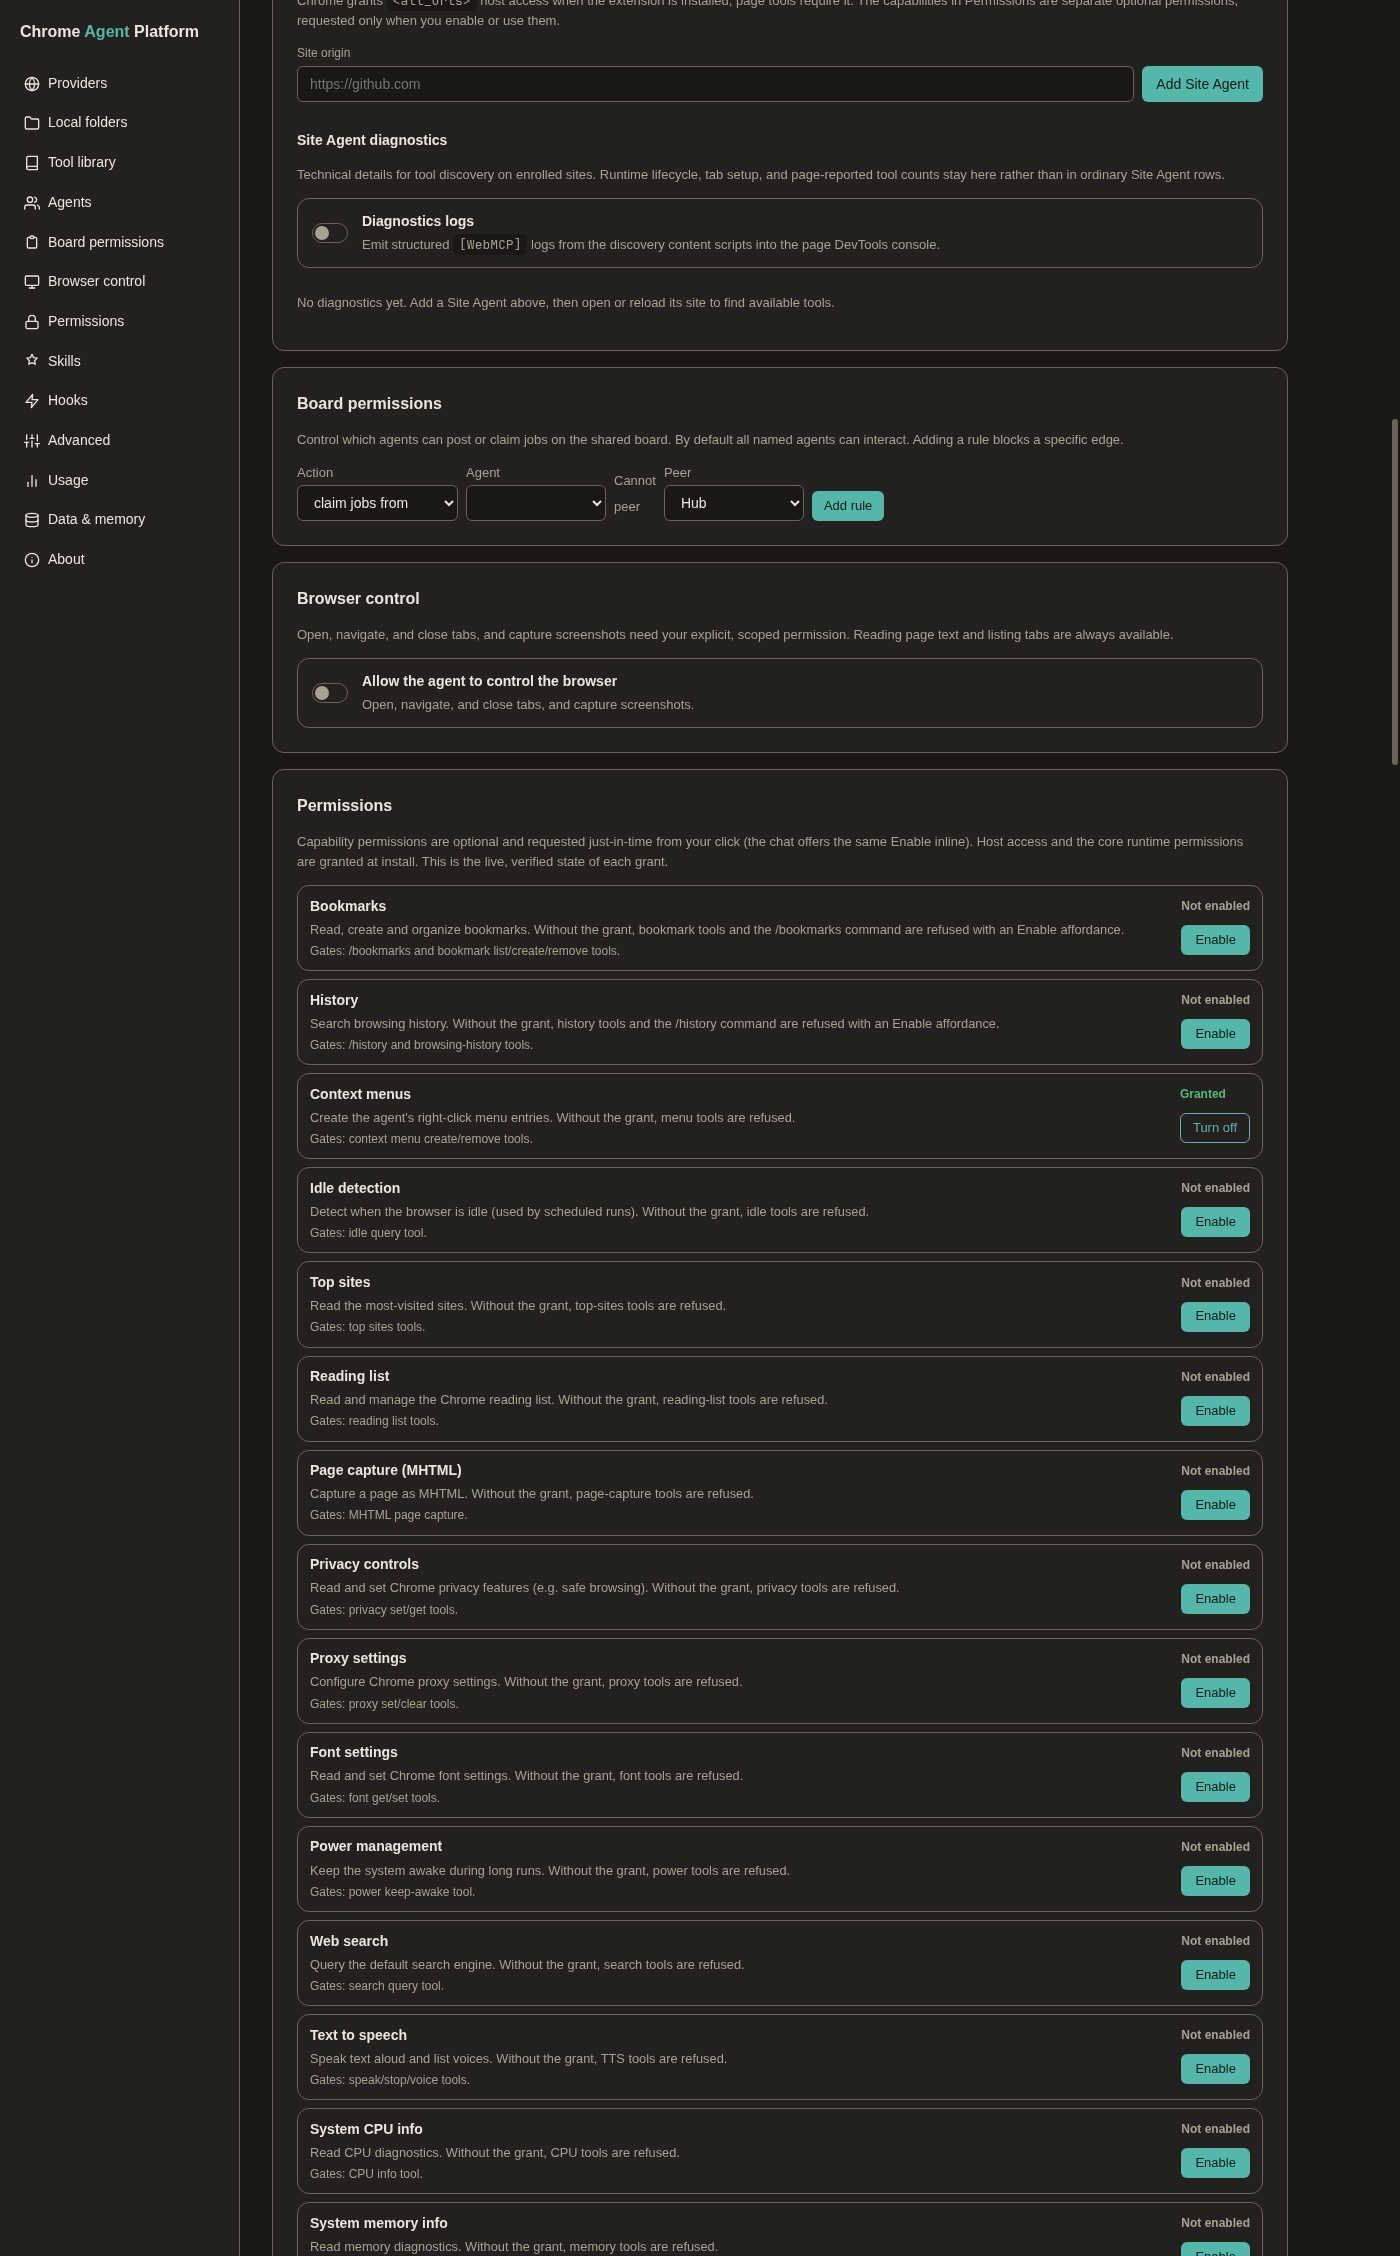
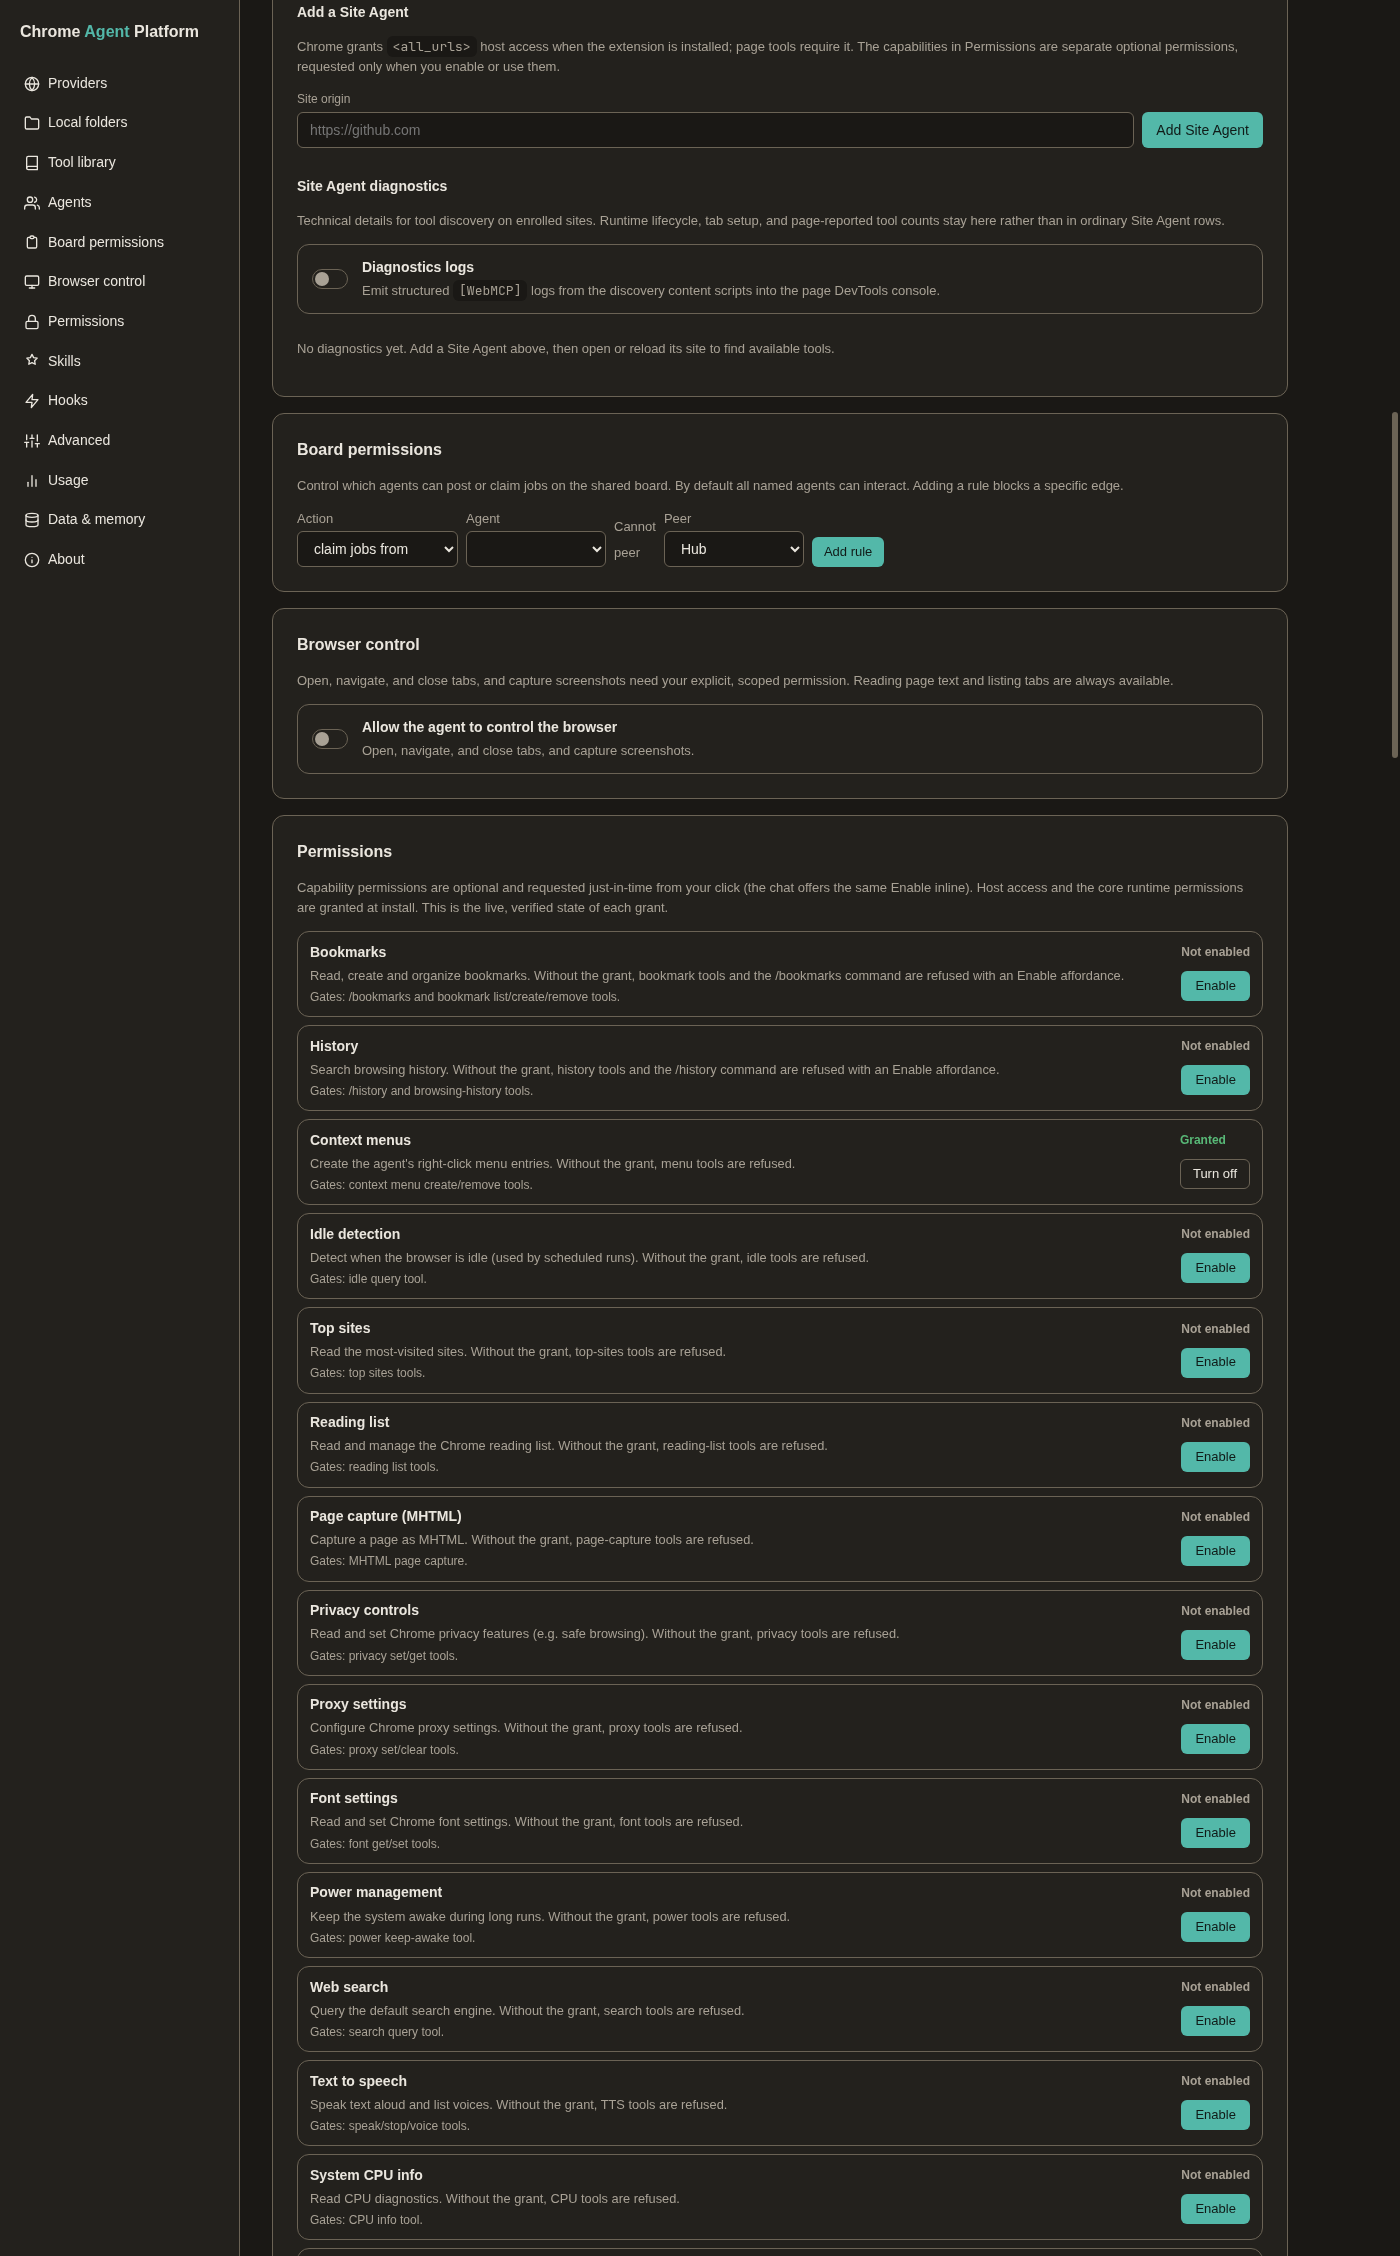
Permission matrix: refresh the attestation at the fail-closed candidate

diff --git a/extension/lib/bundled-inventory-data.js b/extension/lib/bundled-inventory-data.js
@@ -2,7 +2,7 @@
 // Rebuild: node scripts/build-bundled-tool-packages.mjs --evidence-root <dir>
 export const BUNDLED_INVENTORY = Object.freeze({
  "schemaVersion": 1,
- "release": "0.2.433",
+ "release": "0.2.434",
  "signer": {
   "lane": "bundled",
   "keyId": "cap-bundled-release"

diff --git a/CHANGELOG.md b/CHANGELOG.md
@@ -1,5 +1,8 @@
 # Changelog
 
+## [0.2.434] — 2026-08-30
+- Permission matrix: refresh the attestation at the fail-closed candidate
+
 ## [0.2.433] — 2026-08-30
 - Refuse to start the rig when the variant build fails (no integrity manifest)
 
